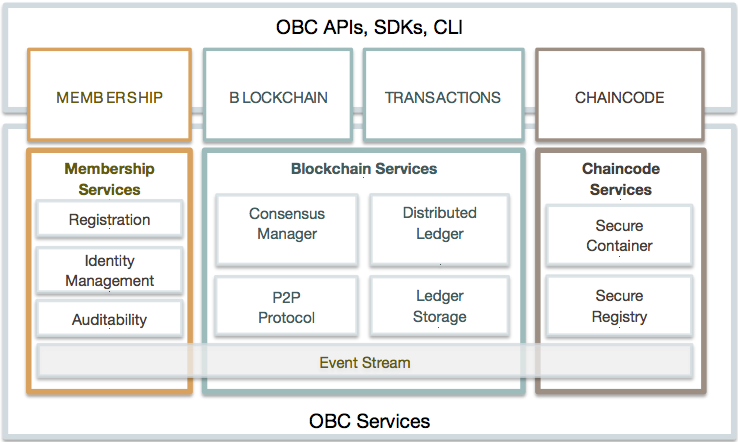
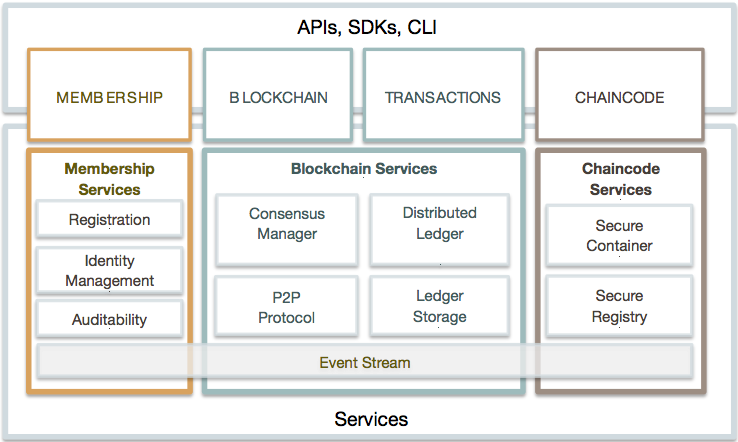
obc removed and REST endpoints updated

Changed region(s): [[0.374, 0.0294, 0.6233, 0.0882], [0.4051, 0.9118, 0.5921, 0.9706]]

diff --git a/docs/protocol-spec.md b/docs/protocol-spec.md
@@ -321,11 +321,10 @@ Messages with type `CHAIN_TRANSACTION` or `CHAIN_QUERY` carry a `Transaction` ob
 message Transaction {
     enum Type {
         UNDEFINED = 0;
-        CHAINCODE_NEW = 1;
-        CHAINCODE_UPDATE = 2;
-        CHAINCODE_EXECUTE = 3;
-        CHAINCODE_QUERY = 4;
-        CHAINCODE_TERMINATE = 5;
+        CHAINCODE_DEPLOY = 1;
+        CHAINCODE_INVOKE = 2;
+        CHAINCODE_QUERY = 3;
+        CHAINCODE_TERMINATE = 4;
     }
     Type type = 1;
     string uuid = 5;
@@ -354,9 +353,8 @@ enum ConfidentialityLevel {
 **Definition of fields:**
 - `type` - The type of the transaction, which is 1 of the following:
 	- `UNDEFINED` - Reserved for future use.
-    - `CHAINCODE_NEW` - Represents the deployment of a new chaincode.
-	- `CHAINCODE_UPDATE` - Reserved for future use.
-	- `CHAINCODE_EXECUTE` - Represents a chaincode function execution that may read and modify the world state.
+  - `CHAINCODE_DEPLOY` - Represents the deployment of a new chaincode.
+	- `CHAINCODE_INVOKE` - Represents a chaincode function execution that may read and modify the world state.
 	- `CHAINCODE_QUERY` - Represents a chaincode function execution that may only read the world state.
 	- `CHAINCODE_TERMINATE` - Marks a chaincode as inactive so that future functions of the chaincode can no longer be invoked.
 - `chaincodeID` - The ID of a chaincode which is a hash of the chaincode source, path to the source code, constructor function, and parameters.
@@ -413,7 +411,7 @@ message ChaincodeInput {
 The peer, receiving the `chaincodeSpec`, wraps it in an appropriate transaction message and broadcasts to the network.
 
 ### 3.1.2.3 Deploy Transaction
-Transaction `type` of a deploy transaction is `CHAINCODE_NEW` and the payload contains an object of `ChaincodeDeploymentSpec`.
+Transaction `type` of a deploy transaction is `CHAINCODE_DEPLOY` and the payload contains an object of `ChaincodeDeploymentSpec`.
 
 ```
 message ChaincodeDeploymentSpec {
@@ -430,7 +428,7 @@ message ChaincodeDeploymentSpec {
 The validating peers always verify the hash of the `codePackage` when they deploy the chaincode to make sure the package has not been tampered with since the deploy transaction entered the network.
 
 ### 3.1.2.4 Invoke Transaction
-Transaction `type` of an invoke transaction is `CHAINCODE_EXECUTE` and the `payload` contains an object of `ChaincodeInvocationSpec`.
+Transaction `type` of an invoke transaction is `CHAINCODE_INVOKE` and the `payload` contains an object of `ChaincodeInvocationSpec`.
 
 ```
 message ChaincodeInvocationSpec {
@@ -2535,7 +2533,7 @@ The fabric API design covers the categories below, though the implementation is 
 *  Event Stream - Sub/pub events on the blockchain
 
 ## 6.1 REST Service
-The REST service can be enabled (via configuration) on either validating or non-validating peers, but it is recommended to only enabled the REST service on non-validating peers on production networks.
+The REST service can be enabled (via configuration) on either validating or non-validating peers, but it is recommended to only enable the REST service on non-validating peers on production networks.
 
 ```
 func StartOpenchainRESTServer(server *oc.ServerOpenchain, devops *oc.Devops)
@@ -2966,7 +2964,7 @@ Enrollment Certificate Retrieval Response:
 }
 ```
 
-The `/registrar/{enrollmentID}/tcert` endpoint retrieves the transaction certificates for a given user that has registered with the certificate authority. If the user has registered, a confirmation message will be returned containing an array of URL-encoded transaction certificates. Otherwise, an error will result. The desired number of transaction certificates is specified with the optional 'count' query parameter. The default number of returned transaction certificates is 1 and 500 is the maximum number of certificates that can be retrieved with a single request. If the client wishes to use the returned transaction certificates after retrieval, keep in mind that they must be URL-decoded.
+The `/registrar/{enrollmentID}/tcert` endpoint retrieves the transaction certificates for a given user that has registered with the certificate authority. If the user has registered, a confirmation message will be returned containing an array of URL-encoded transaction certificates. Otherwise, an error will result. The desired number of transaction certificates is specified with the optional 'count' query parameter. The default number of returned transaction certificates is 1; and 500 is the maximum number of certificates that can be retrieved with a single request. If the client wishes to use the returned transaction certificates after retrieval, keep in mind that they must be URL-decoded.
 
 Transaction Certificate Retrieval Request:
 ```
@@ -3072,7 +3070,7 @@ Some of the available command line arguments for the `peer` command are listed b
 
 * `-u` - username: enrollment ID of a logged in user invoking the transaction.
 
-Not all of the above commands are fully implemented in the current release. The commands that are helpful for chaincode development and debugging and are fully supported are described below.
+Not all of the above commands are fully implemented in the current release. The fully supported commands that are helpful for chaincode development and debugging are described below.
 
 Note, that any configuration settings for the peer node listed in the `core.yaml` configuration file, which is the  configuration file for the `peer` process, may be modified on the command line with an environment variable. For example, to set the `peer.id` or the `peer.addressAutoDetect` settings, one may pass the `CORE_PEER_ID=vp1` and `CORE_PEER_ADDRESSAUTODETECT=true` on the command line.
 
